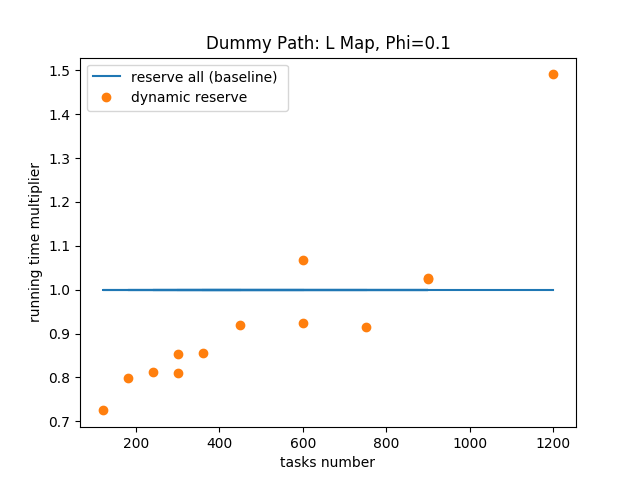
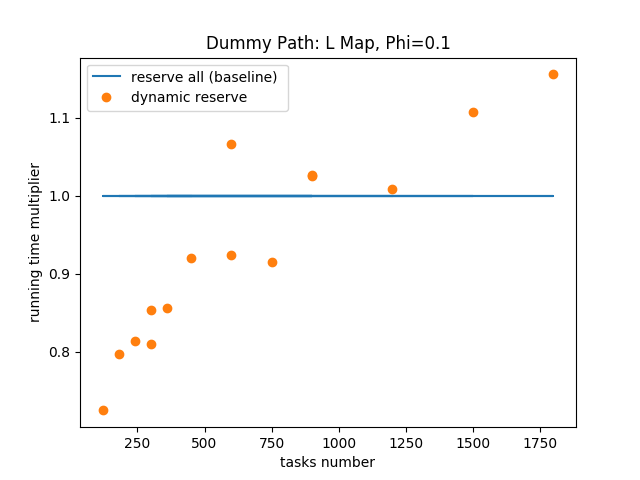
dummy path plots

diff --git a/experiment/test.py b/experiment/test.py
@@ -26,9 +26,9 @@ else:
 # TASKS_PER_AGENT = [2, 5, 10]
 TASKS_PER_AGENT = [10]
 PHIS = [-0.25, -0.1, 0, 0.1, 0.25]
-PHIS_180 = [-0.25, -0.1, 0.25]
+# PHIS_180 = [-0.25, -0.1, 0.25]
 
-EXPERIMENT_JOBS = EXPERIMENT_TIMES * len(AGENTS) * len(TASKS_PER_AGENT) * len(PHIS) * 1 - 20
+EXPERIMENT_JOBS = EXPERIMENT_TIMES * len(AGENTS) * len(TASKS_PER_AGENT) * len(PHIS) * 1
 count = 0
 
 
@@ -88,16 +88,16 @@ async def run(size=(21, 35), agent=10, task_per_agent=2, seed=0, scheduler="flex
 async def run_task(size=(21, 35), agent=10, task_per_agent=2, scheduler="flex", window_size=0):
     tasks = []
     for seed in range(EXPERIMENT_TIMES):
-        if agent == 180:
-            _PHIS = PHIS_180
-        else:
-            _PHIS = PHIS
-        for phi in _PHIS:
+        # if agent == 180:
+        #     _PHIS = PHIS_180
+        # else:
+        #     _PHIS = PHIS
+        for phi in PHIS:
             _run = functools.partial(run, size=size, agent=agent, task_per_agent=task_per_agent, seed=seed,
                                      scheduler=scheduler, window_size=window_size, phi=phi)
             tasks += [
-                # _run(bound=True, sort=True, mlabel=True, reserve=True),
-                _run(bound=True, sort=True, mlabel=True, reserve=False),
+                _run(bound=True, sort=True, mlabel=True, reserve=True),
+                # _run(bound=True, sort=True, mlabel=True, reserve=False),
                 # _run(bound=False, sort=False, mlabel=True, reserve=False),
                 # _run(bound=True, sort=False, mlabel=True, reserve=False),
             ]
